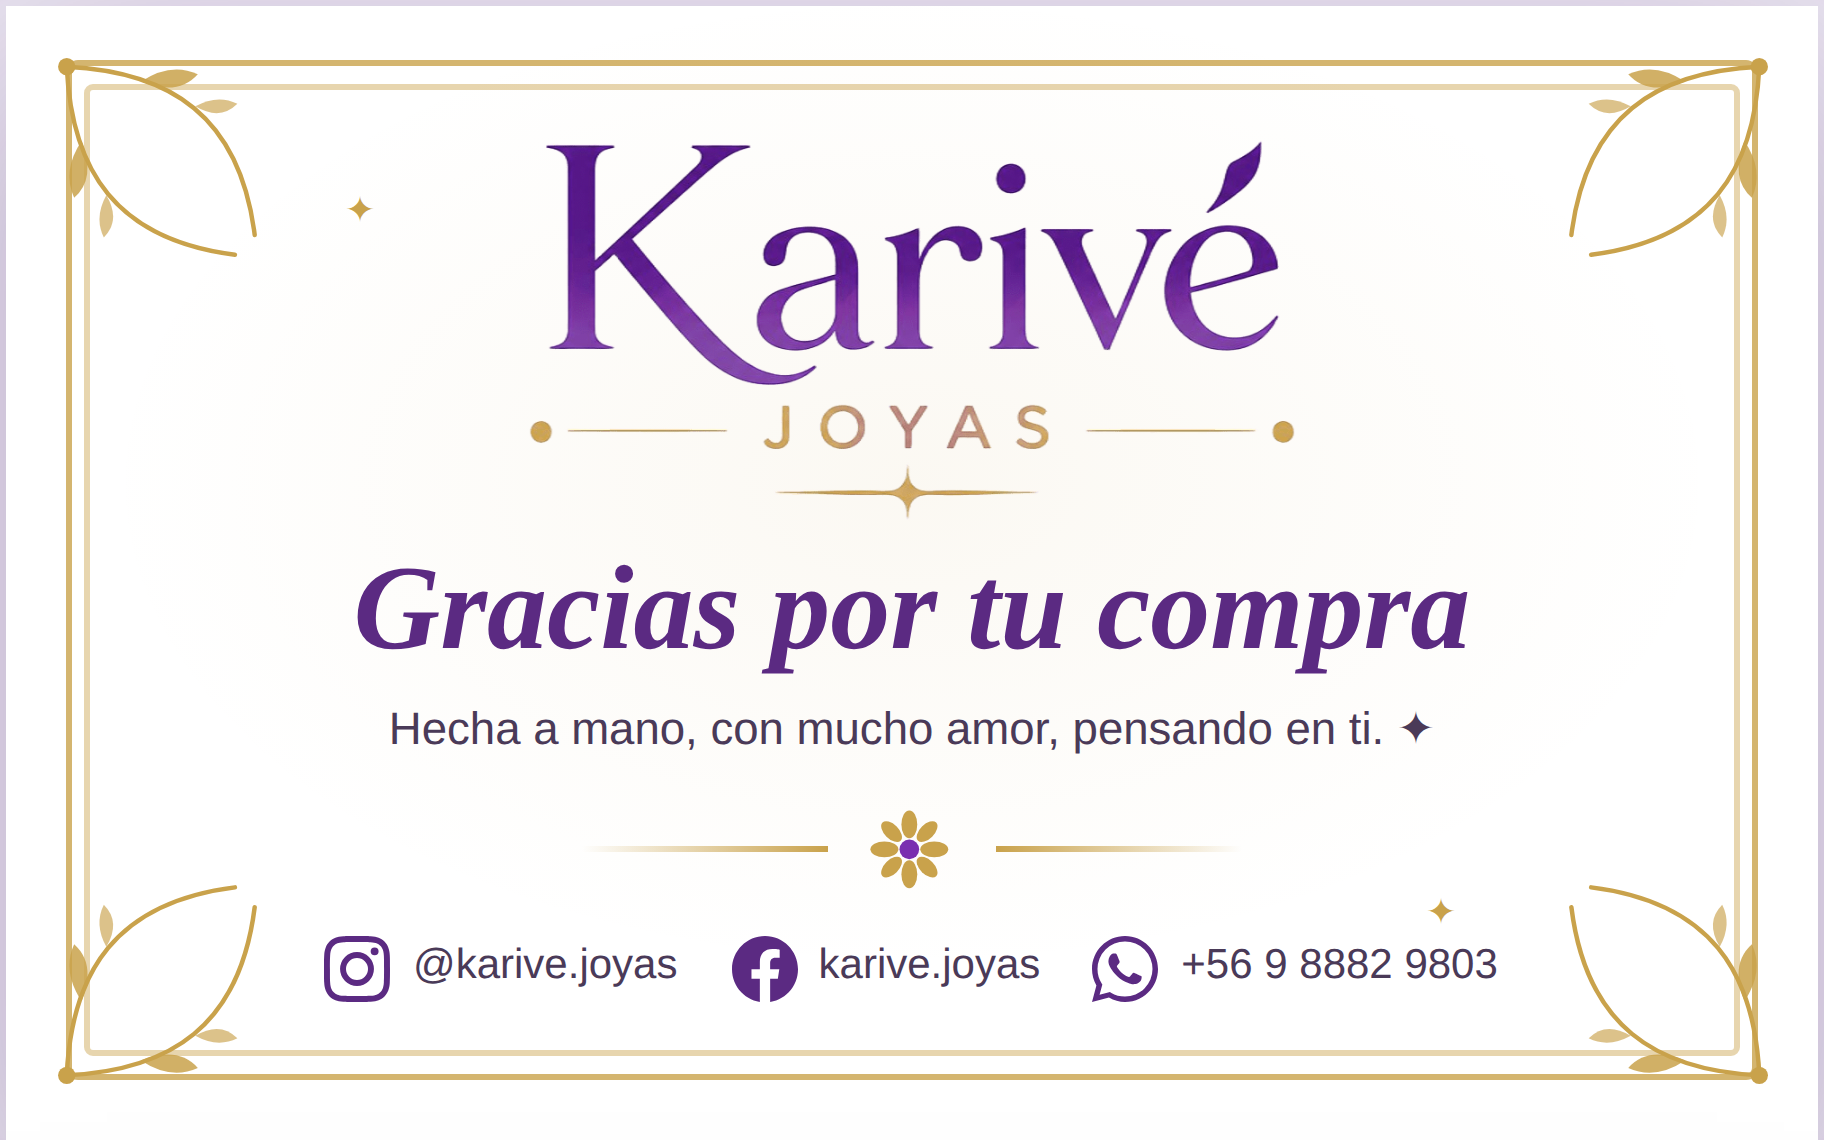
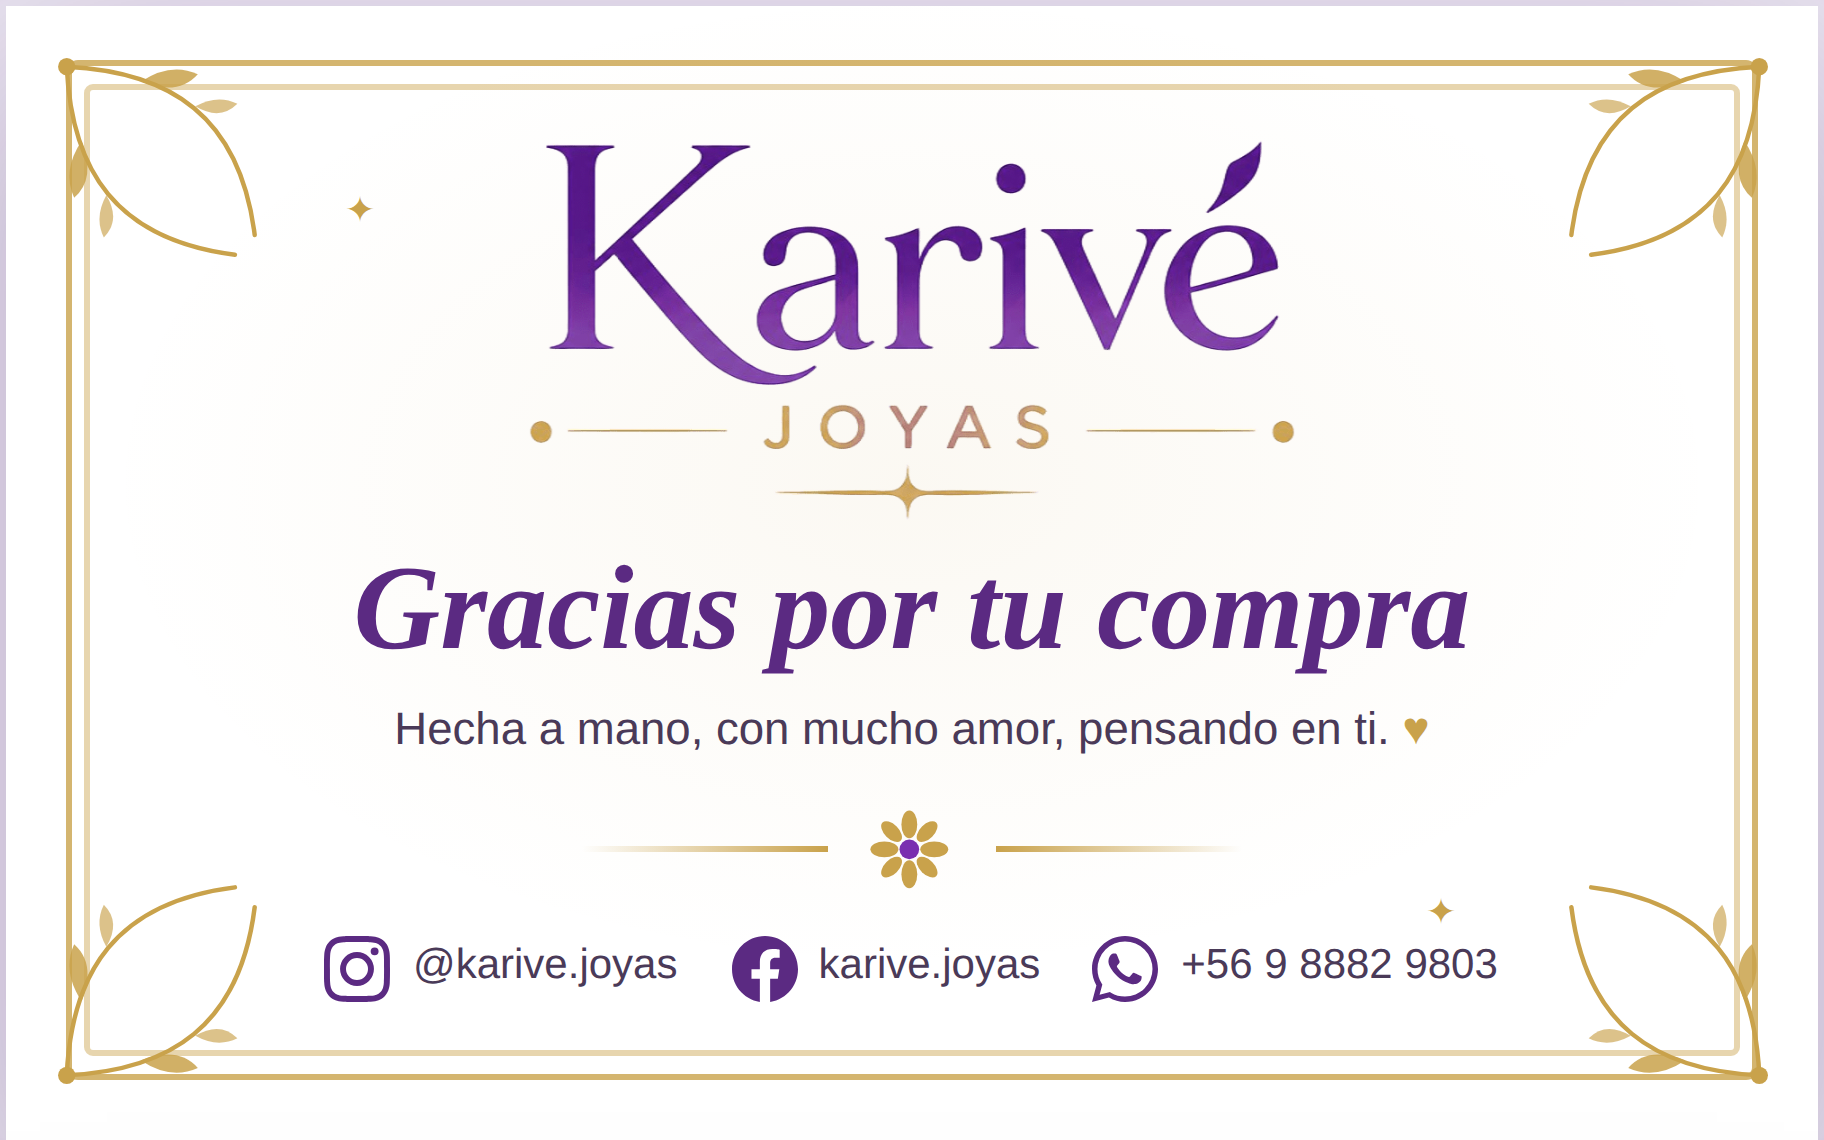
Tarjeta con corazon dorado; reorden con 1 clic; correlativo por coleccion
- Tarjeta de agradecimiento: el brillo del frente ahora es un corazon dorado pequeno
- Reordenar productos: el cambio se ve al instante con un solo clic (sin tener que tocar la foto)
- Codigo de nuevos productos continua la numeracion de su propia coleccion

Claude-Session: https://claude.ai/code/session_01N3BBNB5TiRt2ds6wCrYhmP

Changed region(s): [[0.2188, 0.614, 0.7812, 0.6754]]

diff --git a/admin.js b/admin.js
@@ -74,7 +74,7 @@
   function agregar(categoria) {
     const cat = kvCategorias(settings).find(c => c.id === categoria);
     const maxOrder = products.reduce((m, p) => Math.max(m, p.order || 0), 0);
-    const num = kvNextNum(products);   // sigue el correlativo del número más alto
+    const num = kvNextNumCat(products, categoria);   // sigue el correlativo de esa colección
     itemsCol.add({
       code: (cat && cat.prefijo ? cat.prefijo : 'PR') + '-' + String(num).padStart(3, '0'),
       name: 'Nuevo producto', detail: '', price: 0, priceOffer: 0, photo: null, category: categoria, order: maxOrder + 1, stock: true
@@ -91,8 +91,18 @@
     if (j < 0 || j >= lista.length) return;
     const orden = lista.map(p => p.order || 0).slice().sort((a, b) => a - b); // huecos de orden de esta colección
     lista.splice(j, 0, lista.splice(i, 1)[0]);                                 // mueve el elemento
+    const cambios = [];
+    lista.forEach((p, k) => { if ((p.order || 0) !== orden[k]) cambios.push({ id: p.id, order: orden[k] }); });
+    if (!cambios.length) return;
+    // actualización inmediata en pantalla (para que se vea el cambio con un solo clic)
+    cambios.forEach(c => { const it = products.find(p => p.id === c.id); if (it) it.order = c.order; });
+    products.sort((a, b) => (a.order || 0) - (b.order || 0));
+    renderProductos();
+    const cardEl = document.querySelector('.cat-card-edit[data-id="' + id + '"]');
+    if (cardEl) cardEl.scrollIntoView({ block: 'nearest' });
+    // guardar en la base de datos
     const batch = kvDb.batch();
-    lista.forEach((p, k) => { if ((p.order || 0) !== orden[k]) batch.update(itemsCol.doc(p.id), { order: orden[k] }); });
+    cambios.forEach(c => batch.update(itemsCol.doc(c.id), { order: c.order }));
     batch.commit().catch(err => console.error('Error reordenando:', err));
   }
 

diff --git a/comun.js b/comun.js
@@ -161,10 +161,21 @@ function kvFotoInner(p) {
          'transform:scale(' + (f.zoom / 100) + ');transform-origin:' + f.x + '% ' + f.y + '%;"></div>';
 }
 
-/* siguiente número correlativo (a partir del número más alto en los códigos) */
+/* siguiente número correlativo global (a partir del número más alto en todos los códigos) */
 function kvNextNum(products) {
   let max = 0;
   (products || []).forEach(p => {
+    const m = String(p.code || '').match(/(\d+)\s*$/);
+    if (m) { const n = parseInt(m[1], 10); if (n > max) max = n; }
+  });
+  return max + 1;
+}
+
+/* siguiente número correlativo DE UNA COLECCIÓN (continúa la numeración de esa colección) */
+function kvNextNumCat(products, categoria) {
+  let max = 0;
+  (products || []).forEach(p => {
+    if (p.category !== categoria) return;
     const m = String(p.code || '').match(/(\d+)\s*$/);
     if (m) { const n = parseInt(m[1], 10); if (n > max) max = n; }
   });